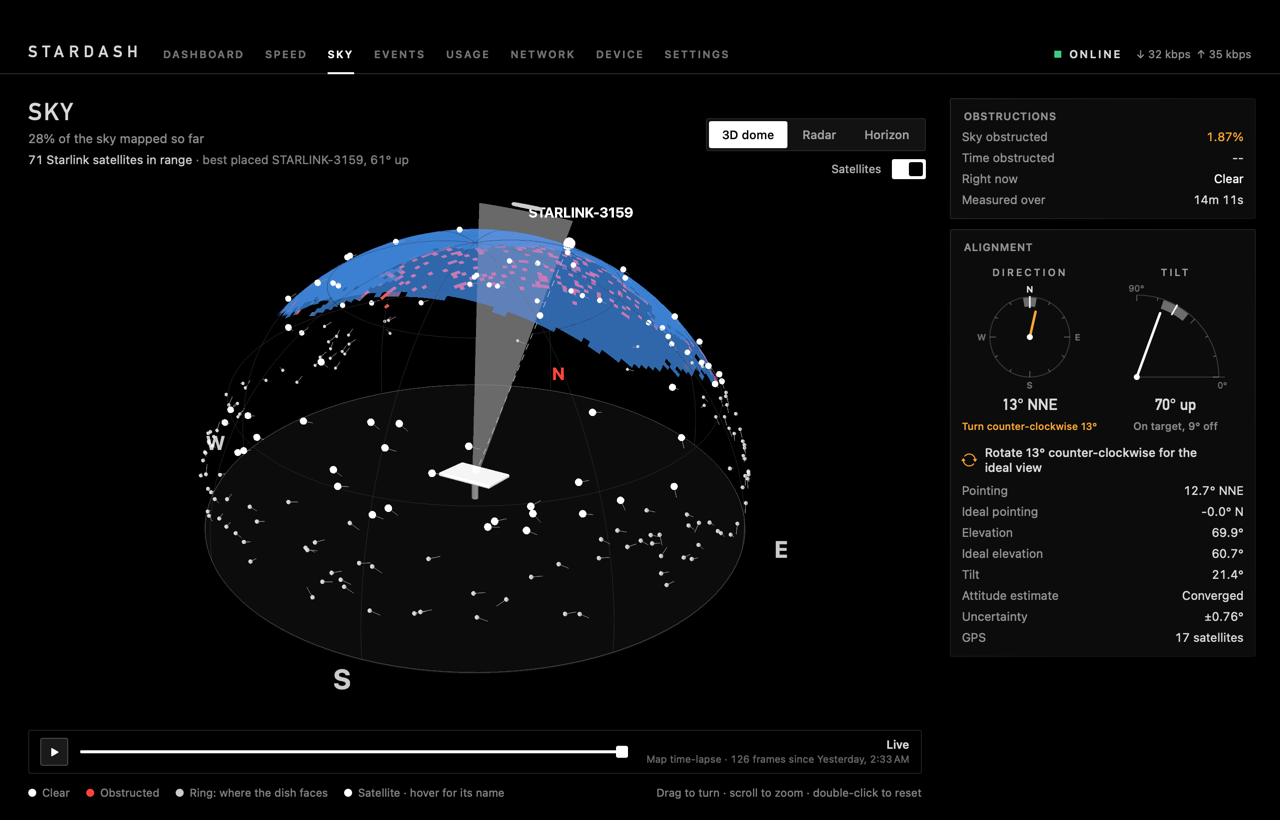
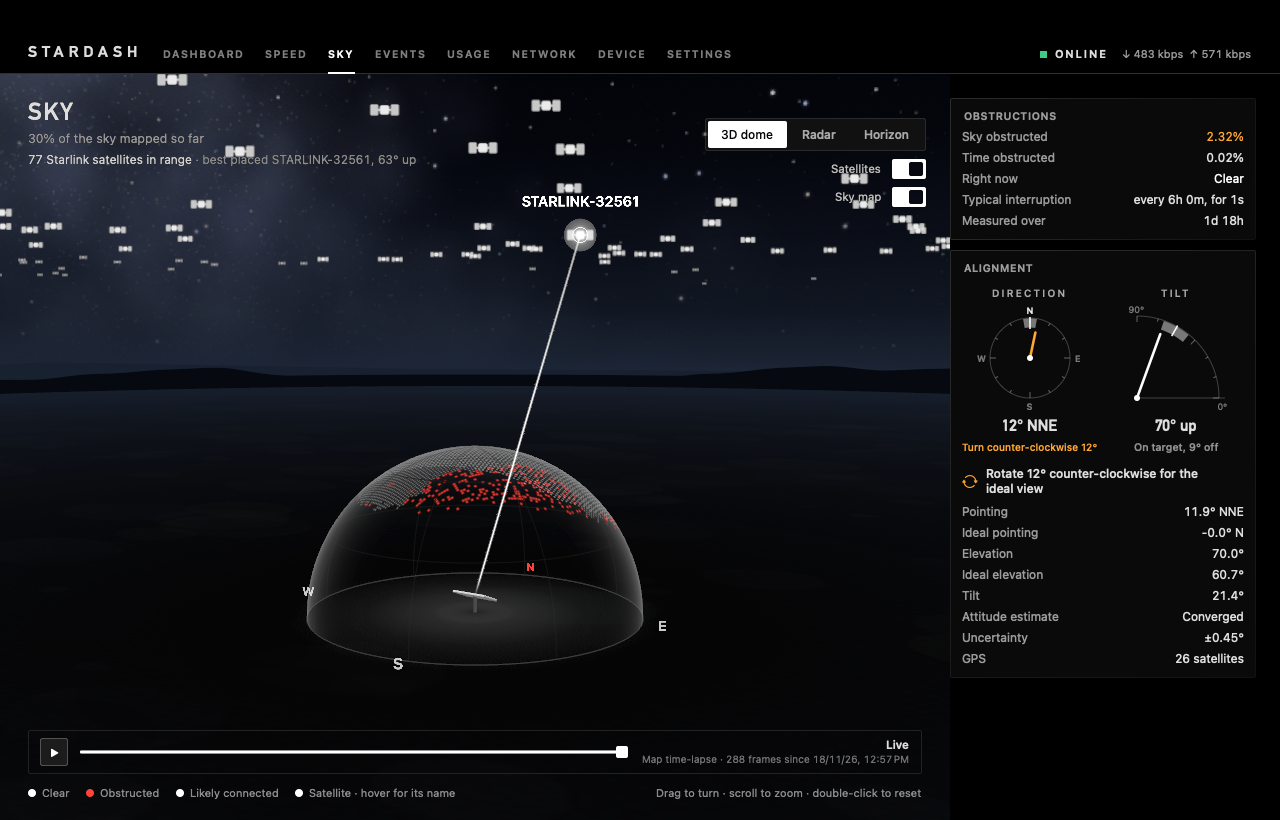
Keep satellites passing the camera from filling the view, and retake the Sky screenshot

diff --git a/Sources/StarDash/UI/Scenes.swift b/Sources/StarDash/UI/Scenes.swift
@@ -587,7 +587,7 @@ final class DomeScene {
         turntable.addChildNode(halo)
     }
 
-    /// Puts a craft on the dome for each satellite, with a short line toward where it's heading.
+    /// Puts a craft in the sky for each satellite, in its real direction from the dish.
     func update(sky: SkyOverlay) {
         while satellitePool.count < sky.satellites.count {
             let node = SCNNode(geometry: Self.craft)
@@ -1016,6 +1016,12 @@ final class DomeScene {
         material.diffuse.mipFilter = .linear
         material.writesToDepthBuffer = false
         plane.firstMaterial = material
+        // A satellite low behind the camera passes right by the lens. Closer than 4 units it
+        // shrinks with distance, so it never looks bigger on screen than one 4 units away.
+        plane.shaderModifiers = [.geometry: """
+        float d = length((scn_node.modelViewTransform * float4(0.0, 0.0, 0.0, 1.0)).xyz);
+        _geometry.position.xyz *= min(1.0, d / 4.0);
+        """]
         return plane
     }
 
